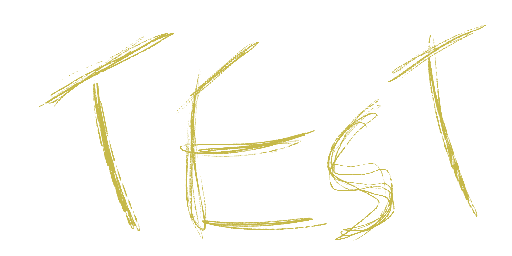
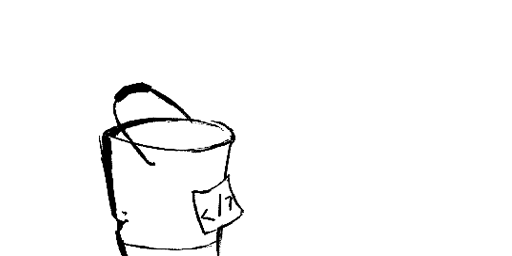
site image fetching update

Changed region(s): [[0.0938, 0.125, 0.625, 1.0], [0.75, 0.0938, 0.9688, 0.8438], [0.625, 0.4062, 0.7812, 0.9375]]

diff --git a/apireqproj.js b/apireqproj.js
@@ -68,12 +68,14 @@ $.get(url, function(data) {
   let repoDescription= [];
   let repoLink= [];
   let repoStars = [];
+  let repoImg=[];
 
   for(let i= 0; i<sortedRepos.length;i++){
       repoName[i]= sortedRepos[i].name;
       repoDescription[i]= sortedRepos[i].description;
       repoLink[i]= sortedRepos[i].html_url;
       repoStars[i] = sortedRepos[i].stargazers_count;
+      repoImg[i]="https://raw.githubusercontent.com/Thebucket-ops/"+repoName[i]+"/refs/heads/main/siteimage.png"
       console.log(repoName);
     }
 
@@ -85,7 +87,7 @@ $.get(url, function(data) {
       var a = document.createElement("a");
       a.setAttribute("class", "repoLink"+i);
       a.setAttribute("href", repoLink[i]);
-      a.innerHTML='<div class="projectsel"><div id="projContent"><pre id="repoTitle'+i+'" class="pen"></pre></br><pre id="repoDescription'+i+'" class="projDesc"></pre></div><img class="projImg'+i+'" src="images/buck&buck/buck&buck.png" alt="proj img"></div>';
+      a.innerHTML='<div class="projectsel"><div id="projContent"><pre id="repoTitle'+i+'" class="pen"></pre></br><pre id="repoDescription'+i+'" class="projDesc"></pre></div><img class="projImg'+i+'" src="'+repoImg[i]+'" alt="proj img"></div>';
       document.getElementById("main").appendChild(a);
 
     }